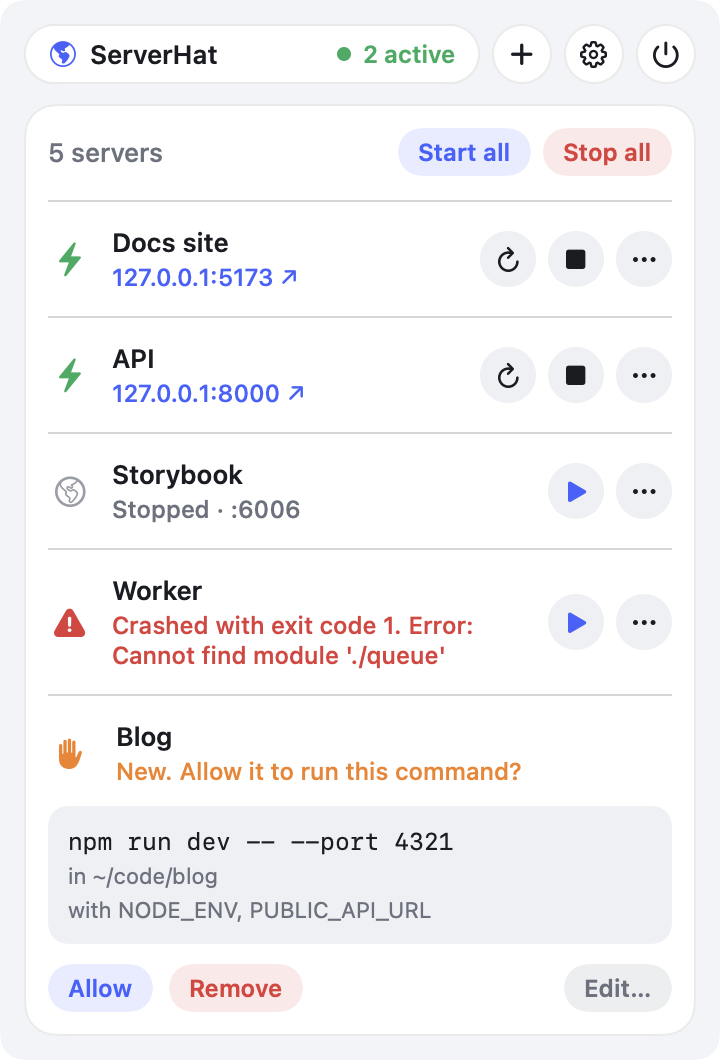
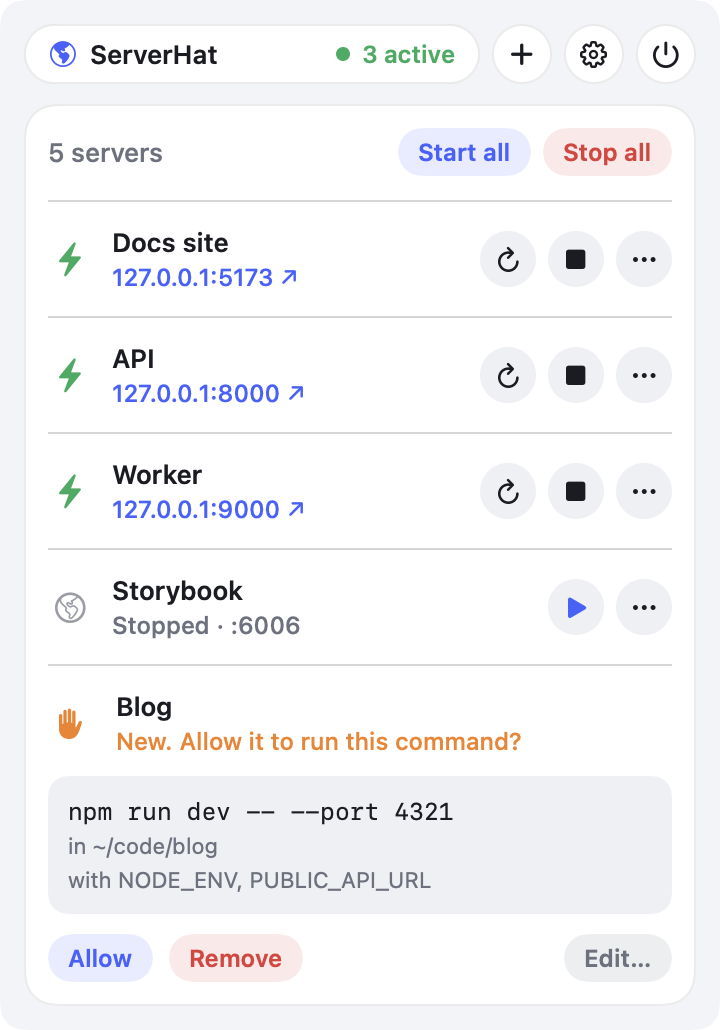
README screenshots: Worker runs instead of crashing

diff --git a/README.md b/README.md
@@ -9,7 +9,7 @@ work (a Node script, `npm run dev`, `python3 -m http.server`, anything with a co
 line), so you never have to keep a Terminal tab open for them. It also has a local API,
 so Claude Code, Codex or your own scripts can add and control servers for you.
 
-<img src="docs/menu.png" width="360" alt="ServerHat's menu: two servers running with their addresses, one stopped, one crashed with its error, and one waiting for approval with its command, folder and environment names, and Allow and Remove"> <img src="docs/menu-dark.png" width="360" alt="The same menu in dark mode">
+<img src="docs/menu.png" width="360" alt="ServerHat's menu: three servers running with their addresses, one stopped, and one waiting for approval with its command, folder and environment names, and Allow and Remove"> <img src="docs/menu-dark.png" width="360" alt="The same menu in dark mode">
 
 ## What it does
 
